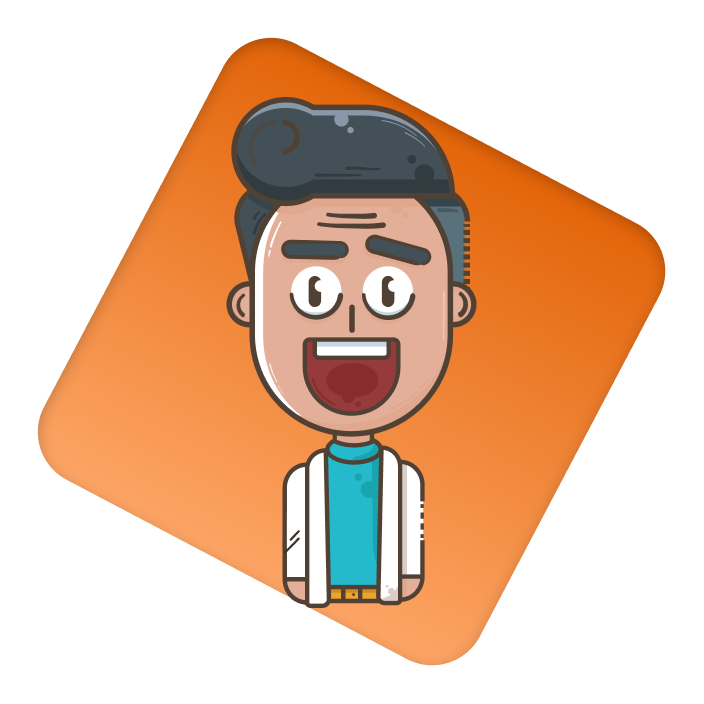
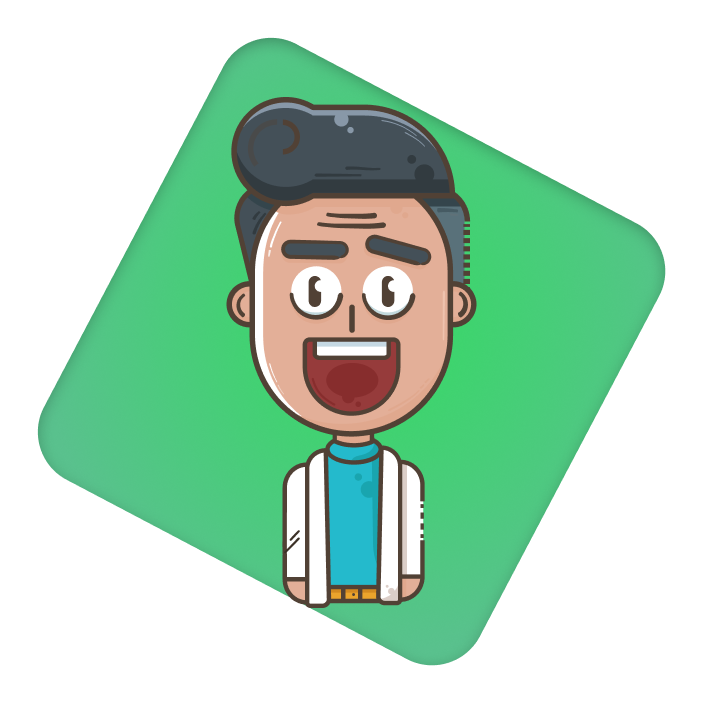
Started contact section

diff --git a/style/style.css b/style/style.css
@@ -5,7 +5,6 @@
   margin: 0;
   font-size: 16px;
   font-family: 'Roboto';
-  overflow-x: hidden;
 }
 
 nav {
@@ -156,9 +155,9 @@ nav ul a {
 }
 
 .aboutme .about button {
-  background-color: #F16500;
-  padding: 15px;
+  background: radial-gradient(46.66% 46.66% at 50.73% 42.76%, #34DB63 0%, #59C18D 100%);
   border-radius: 10px;
+  padding: 20px;
   width: 150px;
   line-height: 10px;
   color: white;
@@ -246,21 +245,20 @@ nav ul a {
 }
 
 .myskills .cards #card1 {
-  background: -webkit-gradient(linear, left top, left bottom, color-stop(5.84%, #E06B15), to(#FF9549));
-  background: linear-gradient(180deg, #E06B15 5.84%, #FF9549 100%);
+  background: linear-gradient(174.8deg, #34DB63 1.27%, #59C18D 101.37%);
   color: white;
 }
 
 .myskills .cards #card2 {
-  border-left: 6px solid #E06B15;
+  border-left: 6px solid #59C18D;
 }
 
 .myskills .cards #card3 {
-  border-left: 6px solid #49C5D6;
+  border-left: 6px solid #008585;
 }
 
 .myproyects {
-  height: 100vh;
+  height: 130vh;
   overflow: hidden;
   background-image: url(/images/proyectsbg.svg);
 }
@@ -292,14 +290,98 @@ nav ul a {
 }
 
 .myproyects #proyectsabout button {
-  background-color: #F16500;
-  padding: 10px;
+  background-color: #59C18D;
+  padding: 5px;
   border-radius: 10px;
   width: 230px;
+  height: 70px;
   line-height: 5px;
   color: white;
   font-weight: 400;
   font-size: 1.4em;
   border: none;
+}
+
+.swiper-container {
+  width: 90%;
+  padding-top: 50px;
+  padding-bottom: 50px;
+  margin-top: 100px;
+  height: 100%;
+  border-radius: 10px;
+}
+
+.swiper-container .swiper-slide {
+  width: 600px;
+  height: 350px;
+  display: -webkit-box;
+  display: -ms-flexbox;
+  display: flex;
+  -webkit-box-orient: vertical;
+  -webkit-box-direction: normal;
+      -ms-flex-direction: column;
+          flex-direction: column;
+  -webkit-box-pack: center;
+      -ms-flex-pack: center;
+          justify-content: center;
+  text-align: center;
+  background-color: rgba(255, 255, 255, 0.808);
+  border-radius: 10px;
+}
+
+.swiper-container .swiper-slide :first-child {
+  -webkit-box-flex: 1;
+      -ms-flex-positive: 1;
+          flex-grow: 1;
+}
+
+.swiper-container .swiper-slide img {
+  width: 600px;
+  height: 250px;
+  border-radius: 10px 10px 0 0;
+}
+
+.swiper-container .swiper-slide .text {
+  height: 70px;
+  width: 100%;
+  display: -webkit-box;
+  display: -ms-flexbox;
+  display: flex;
+  -webkit-box-orient: vertical;
+  -webkit-box-direction: normal;
+      -ms-flex-direction: column;
+          flex-direction: column;
+  text-align: center;
+  -webkit-box-pack: center;
+      -ms-flex-pack: center;
+          justify-content: center;
+  padding: 15px;
+}
+
+.sayhello {
+  height: 30vh;
+  display: -webkit-box;
+  display: -ms-flexbox;
+  display: flex;
+  text-align: center;
+  -webkit-box-align: center;
+      -ms-flex-align: center;
+          align-items: center;
+  -webkit-box-pack: center;
+      -ms-flex-pack: center;
+          justify-content: center;
+}
+
+.sayhello .email {
+  background-color: white;
+  border-radius: 10px;
+  color: green;
+  display: -webkit-box;
+  display: -ms-flexbox;
+  display: flex;
+  -webkit-box-orient: vertical;
+  -webkit-box-direction: normal;
+      -ms-flex-direction: column;
+          flex-direction: column;
 }
 /*# sourceMappingURL=style.css.map */

diff --git a/index.html b/index.html
@@ -5,7 +5,9 @@
     <meta name="viewport" content="width=device-width, initial-scale=1.0" />
     <title>Sebarz</title>
     <link rel="stylesheet" href="/style/style.css" />
-    <link href="https://fonts.googleapis.com/css2?family=Roboto:ital,wght@0,100;0,300;0,400;0,500;0,700;0,900;1,100;1,300;1,400;1,500;1,700;1,900&display=swap" rel="stylesheet">  <body>
+    <link href="https://fonts.googleapis.com/css2?family=Roboto:ital,wght@0,100;0,300;0,400;0,500;0,700;0,900;1,100;1,300;1,400;1,500;1,700;1,900&display=swap" rel="stylesheet">  
+    <link rel="stylesheet" href="https://unpkg.com/swiper/swiper-bundle.min.css">
+    <body>
     <section class="main">
       <h1 id="sebarz">Sebarz</h1>
       <img src="/images/Splash 1.svg" id="splash1">
@@ -52,8 +54,7 @@
         </div>
         <div id="card3">
           <h1>Other</h1>
-          <p>Python, Bash, Git, Github, Filmmaking
-          </p>
+          <p>Python, Bash, Git, Github, Filmmaking</p>
         </div>
       </div>
     </section>
@@ -65,6 +66,60 @@
         </div>
         <button>Visit my github</button>
       </div>
+      <div class="swiper-container">
+        <div class="swiper-wrapper">
+          <div class="swiper-slide">
+            <img src="images/negro.jpg">
+            <div class="text">
+              <h3>Proyecto 1</h3>
+              <p>breve descripcion del pryecto numero uno pero en inglés</p>
+            </div>
+          </div>
+          <div class="swiper-slide">
+            <img src="/images/negro.jpg" alt="">
+            <div class="text">
+              <h3>Proyecto 2</h3>
+              <p>breve descripcion del pryecto numero dos pero en inglés</p>
+            </div>
+          </div>
+          <div class="swiper-slide">
+            <img src="/images/negro.jpg" alt="">
+            <div class="text">
+              <h3>Proyecto 3</h3>
+              <p>breve descripcion del pryecto numero tres pero en inglés</p>
+            </div>
+          </div><div class="swiper-slide">
+            <img src="/images/negro.jpg" alt="">
+            <div class="text">
+              <h3>Proyecto 4</h3>
+              <p>breve descripcion del pryecto numero cuatro pero en inglés</p>
+            </div>
+          </div>
+        </div>
+      </div>
     </section>
+    <section class="sayhello">
+      <div class="email">
+        <h1>Say Hello at</h1>
+        <a href="mailto:sebarzp@gmail.com"><p>sebarzp@gmail.com</p></a>
+      </div>
+    </section>
+    <script src="https://unpkg.com/swiper/swiper-bundle.min.js"></script>
+    <script>
+      var swiper = new Swiper('.swiper-container', {
+        effect: 'coverflow',
+        grabCursor: true,
+        centeredSlides: true,
+        slidesPerView: 'auto', 
+        coverflowEffect: {
+          rotate: 50,
+          stretch: 0,
+          depth: 100,
+          modifier: 1,
+          slideShadows : false,
+        },
+        loop: 3,
+      });
+    </script>
   </body>
 </html>

diff --git a/style/style.scss b/style/style.scss
@@ -4,7 +4,6 @@
     margin: 0;
     font-size: 16px;
     font-family: 'Roboto';
-    overflow-x: hidden;
 }
 
 nav{
@@ -121,9 +120,9 @@ nav{
         }
 
         button{
-            background-color: #F16500;
-            padding: 15px;
+            background: radial-gradient(46.66% 46.66% at 50.73% 42.76%, #34DB63 0%, #59C18D 100%);
             border-radius: 10px;
+            padding: 20px;
             width: 150px;
             line-height: 10px;
             color: white;
@@ -189,20 +188,20 @@ nav{
         }
 
         #card1{
-            background: linear-gradient(180deg, #E06B15 5.84%, #FF9549 100%);
+            background: linear-gradient(174.8deg, #34DB63 1.27%, #59C18D 101.37%);
             color: white;
         }
         #card2{
-            border-left: 6px solid #E06B15;
+            border-left: 6px solid #59C18D;
         }
         #card3{
-            border-left: 6px solid #49C5D6; 
+            border-left: 6px solid #008585; 
         }
     }
 }
 
 .myproyects{
-    height: 100vh;
+    height: 130vh;
     overflow: hidden;
     background-image: url(/images/proyectsbg.svg);
     #proyectsabout{
@@ -224,10 +223,11 @@ nav{
             }
         }
         button{
-            background-color: #F16500;
-            padding: 10px;
+            background-color: #59C18D;
+            padding: 5px;
             border-radius: 10px;
             width: 230px;
+            height: 70px;
             line-height: 5px;
             color: white;
             font-weight: 400;
@@ -235,4 +235,57 @@ nav{
             border: none;
         }
     }
+}
+
+.swiper-container {
+    width: 90%;
+    padding-top: 50px;
+    padding-bottom: 50px;
+    margin-top: 100px;
+    height: 100%;
+    border-radius: 10px;
+  .swiper-slide{
+    width: 600px;
+    height: 350px;
+    display: flex;
+    flex-direction: column;
+    justify-content: center;
+    text-align: center;
+    background-color: rgba(255, 255, 255, 0.808);
+    border-radius: 10px;
+    :first-child{
+        flex-grow: 1;
+    }
+    img{
+        width: 600px;
+        height: 250px;
+        border-radius: 10px 10px 0 0;
+    }
+    .text{
+        height: 70px;
+        width: 100%;
+        display: flex;
+        flex-direction: column;
+        text-align: center;
+        justify-content: center;
+        padding: 15px;
+
+    }
+  }
+}
+
+.sayhello{
+    height: 30vh;
+    display: flex;
+    text-align: center;
+    align-items: center;
+    justify-content: center;
+    .email{
+        background-color: white;
+        border-radius: 10px;
+        color: green;
+        display: flex;
+        flex-direction: column;
+    }
+
 }
